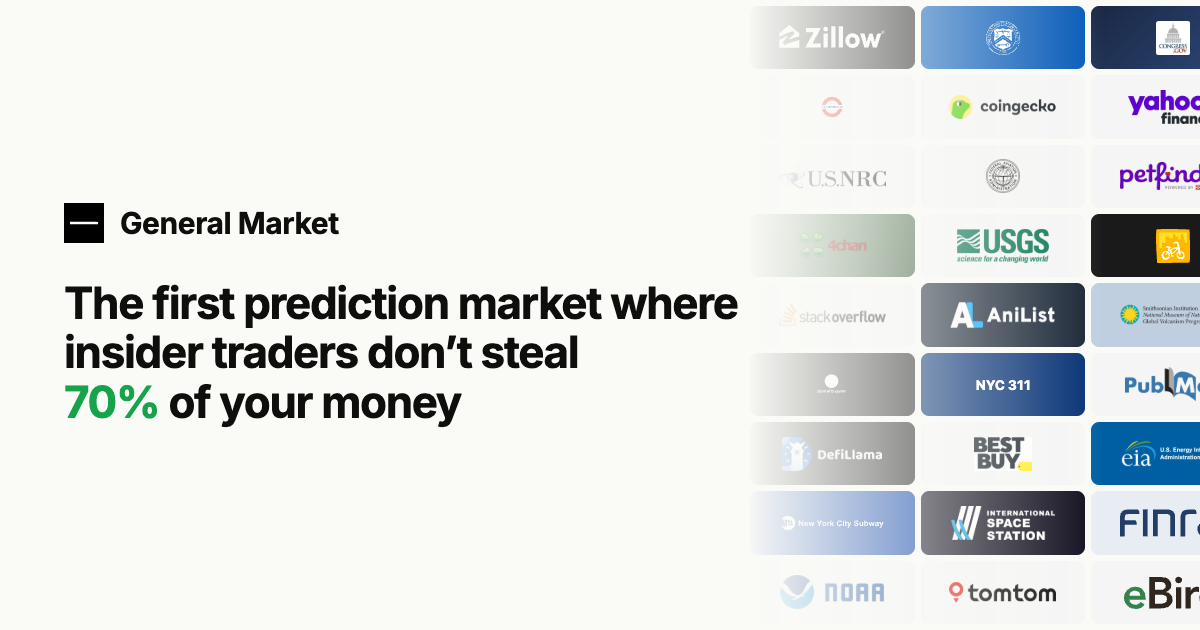
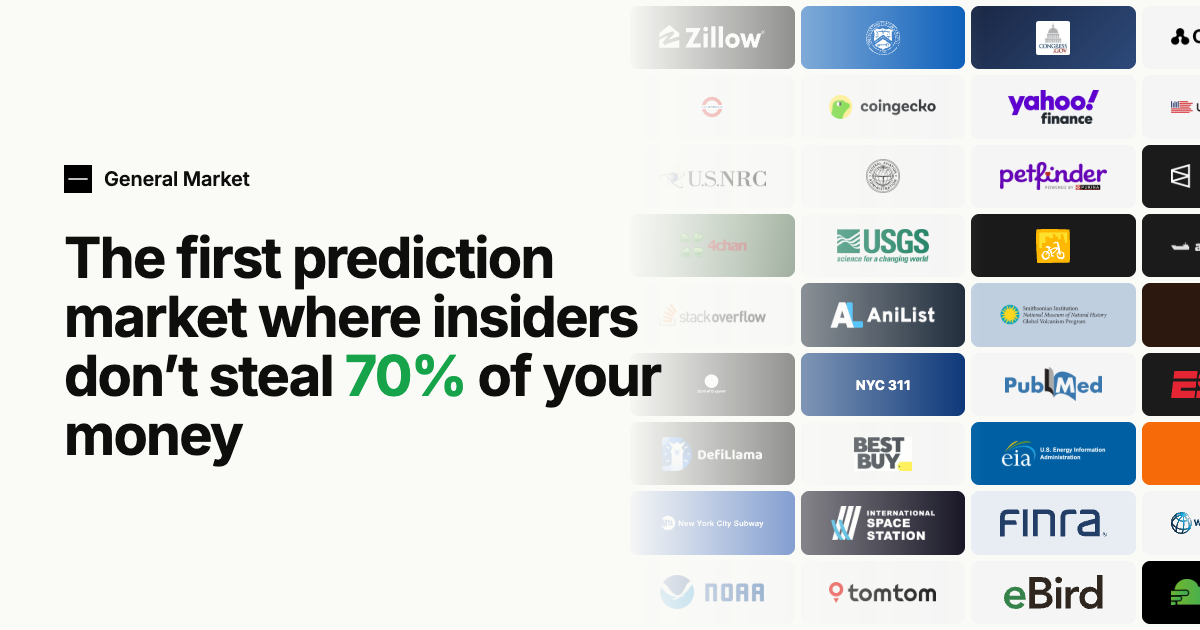
og-card: rollback to insiders + flowing 4-line headline

diff --git a/video/src/compositions/launch/OgCardGM.tsx b/video/src/compositions/launch/OgCardGM.tsx
@@ -13,7 +13,7 @@ export const OgCardGM: React.FC = () => {
       {/* Right-side logo grid, masked with a left-to-right fade */}
       <AbsoluteFill
         style={{
-          left: "62%",
+          left: "52%",
           WebkitMaskImage:
             "linear-gradient(to right, rgba(0,0,0,0) 0%, rgba(0,0,0,1) 30%, rgba(0,0,0,1) 100%)",
           maskImage:
@@ -73,39 +73,36 @@ export const OgCardGM: React.FC = () => {
           gap: 36,
         }}
       >
-        <div style={{ display: "flex", alignItems: "center", gap: 16 }}>
+        <div style={{ display: "flex", alignItems: "center", gap: 12 }}>
           <Img
             src={staticFile("gm-logo.svg")}
-            style={{ width: 40, height: 40 }}
+            style={{ width: 28, height: 28 }}
           />
           <div
             style={{
               fontFamily: font,
-              fontSize: 30,
-              fontWeight: 700,
+              fontSize: 20,
+              fontWeight: 600,
               color: "#0e0f0c",
-              letterSpacing: "-0.015em",
+              letterSpacing: "-0.01em",
             }}
           >
             General Market
           </div>
         </div>
 
-        <div style={{ maxWidth: 720, whiteSpace: "nowrap" }}>
+        <div style={{ maxWidth: 620 }}>
           <div
             style={{
               fontFamily: font,
-              fontSize: 44,
+              fontSize: 56,
               fontWeight: 700,
               color: "#0e0f0c",
-              lineHeight: 1.12,
+              lineHeight: 1.05,
               letterSpacing: "-0.03em",
             }}
           >
-            The first prediction market where
-            <br />
-            insider traders don&rsquo;t steal
-            <br />
+            The first prediction market where insiders don&rsquo;t steal{" "}
             <span style={{ color: "#16a34a" }}>70%</span> of your money
           </div>
         </div>
